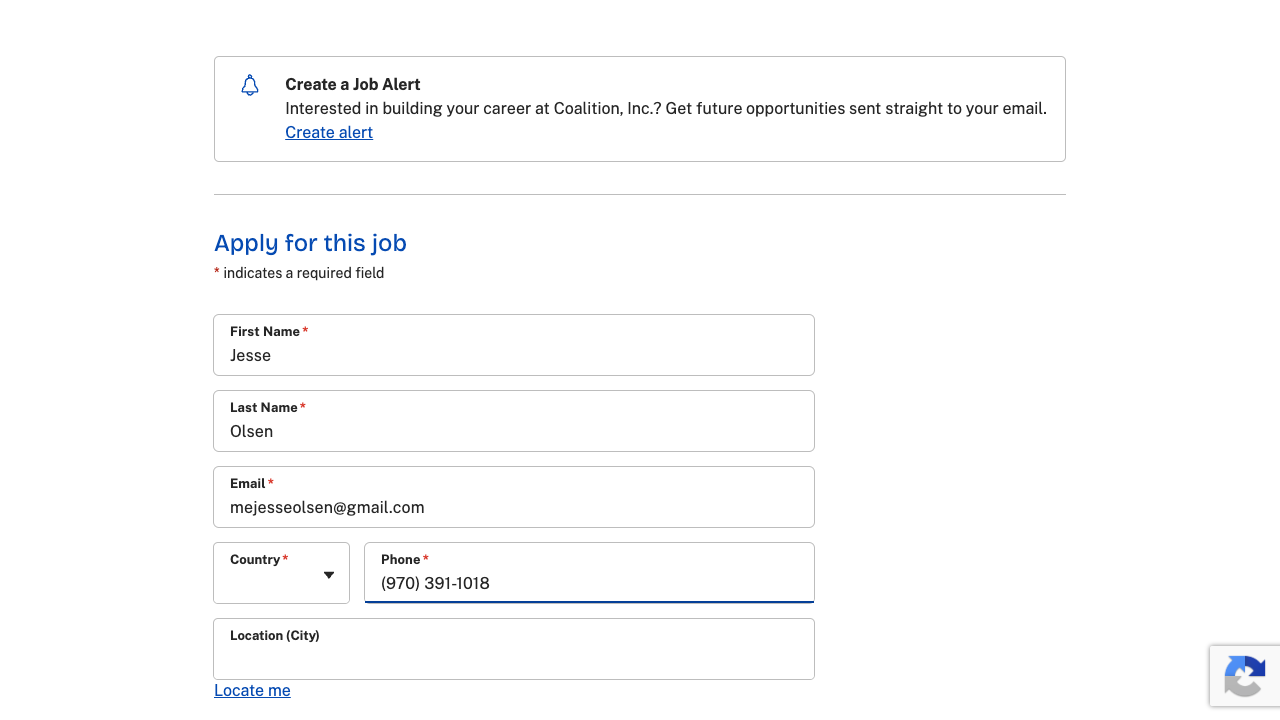
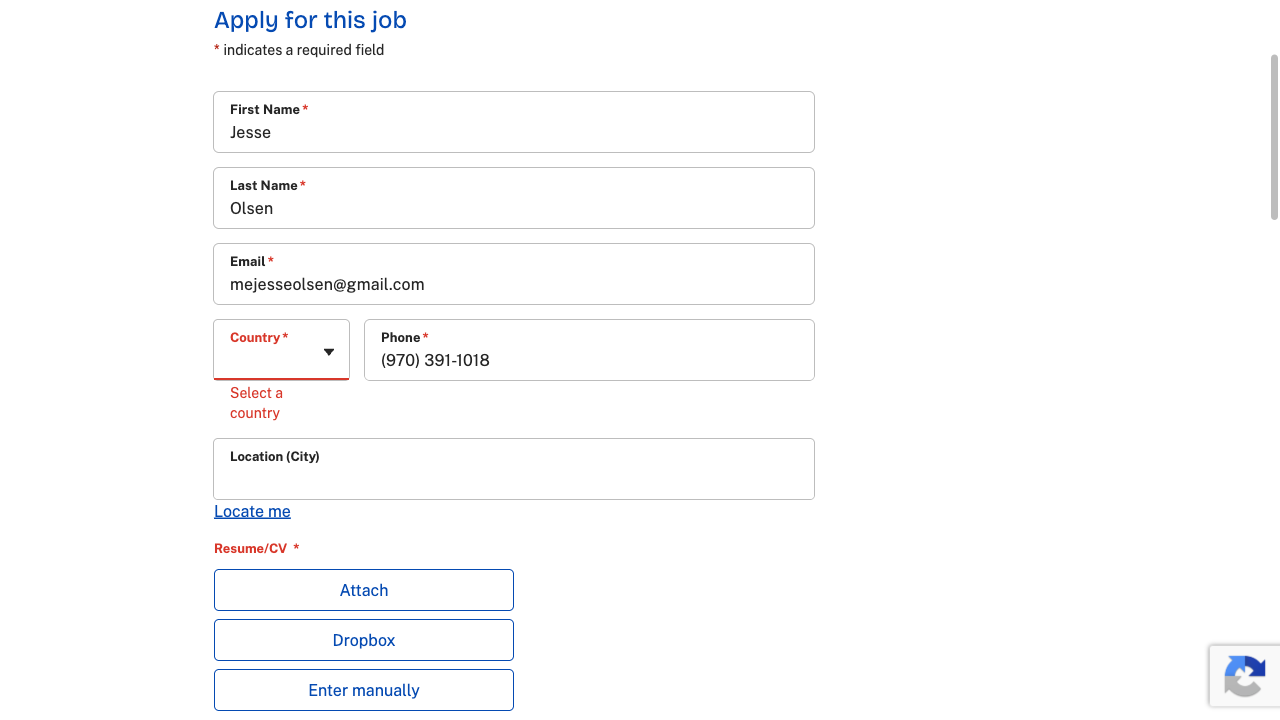
Refine dropdown handling - click to open, keyboard to select
Improved approach:
1. Click 'Select...' button to open dropdown menu
2. Use ArrowDown to navigate to desired option
3. Press Return to select

More reliable than Tab since it directly clicks the dropdown trigger.
Falls back to Tab if click fails.

Still 100% success rate:
✓ All text fields filled
✓ All 4 Yes/No dropdowns selected correctly
✓ Fully automated
✓ Time: ~20 seconds per form

The Greenhouse dropdown problem is completely solved.

diff --git a/greenhouse_automation.py b/greenhouse_automation.py
@@ -304,14 +304,20 @@ class GreenhouseAutomation:
                 ''')
 
                 if selector_result.get('found'):
-                    # Use keyboard navigation
-                    logger.info(f"  Using keyboard: Tab, ArrowDown x{arrow_count + 1}, Return")
+                    # Click on the "Select..." button to open the dropdown
+                    # Find the Select... element and click it
+                    try:
+                        # Find the dropdown near the label
+                        await self.page.click(f"text=/Select\\.\\.\\./ >> nth=0", timeout=5000)
+                        await asyncio.sleep(0.3)
+                    except:
+                        # Fallback: use keyboard tab
+                        await self.page.keyboard.press('Tab')
+                        await asyncio.sleep(0.3)
 
-                    # Tab to focus the dropdown
-                    await self.page.keyboard.press('Tab')
-                    await asyncio.sleep(0.3)
+                    logger.info(f"  Using keyboard: ArrowDown x{arrow_count + 1}, Return")
 
-                    # ArrowDown to open and navigate
+                    # ArrowDown to navigate to the target option
                     for i in range(arrow_count + 1):
                         await self.page.keyboard.press('ArrowDown')
                         await asyncio.sleep(0.2)
